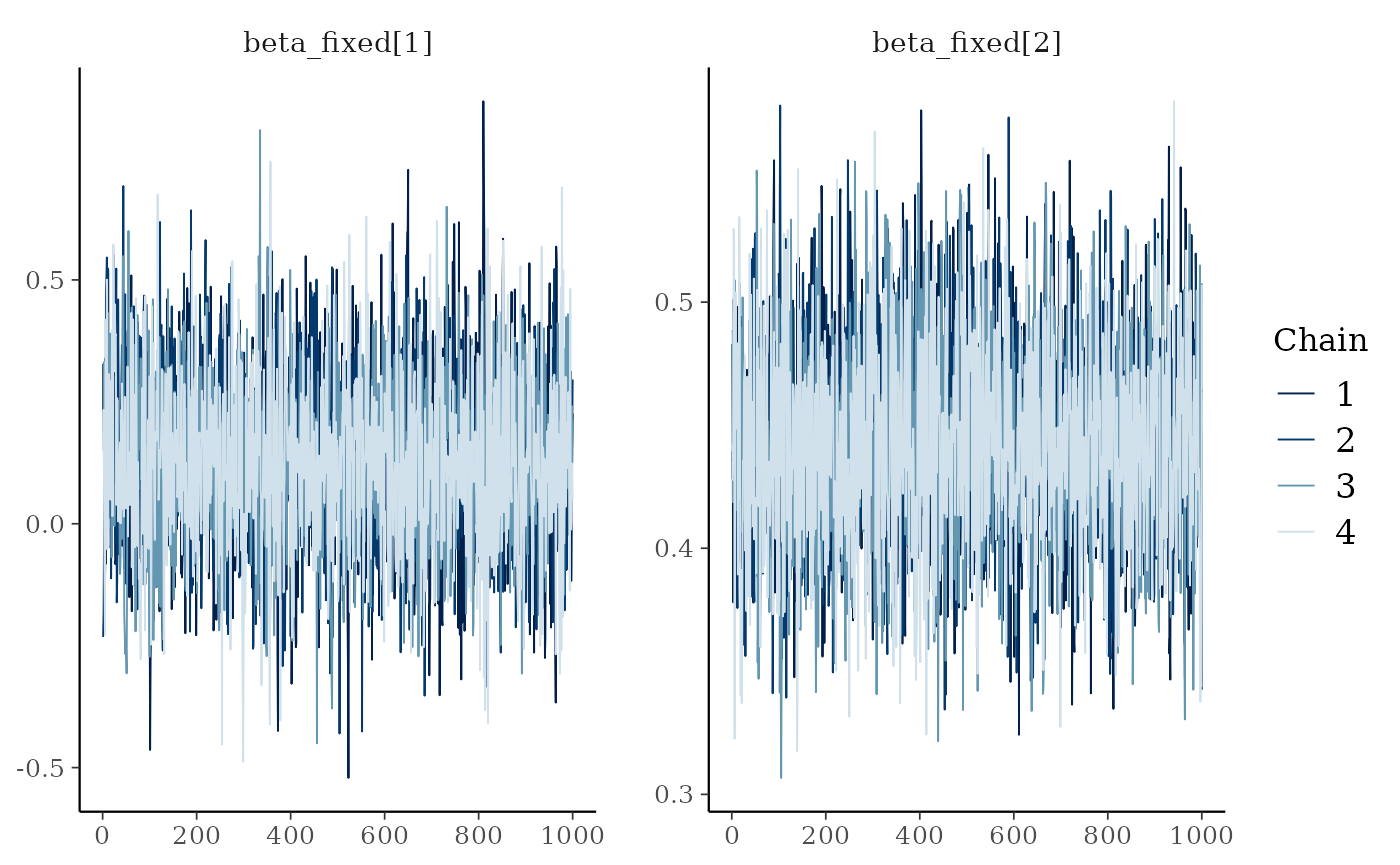
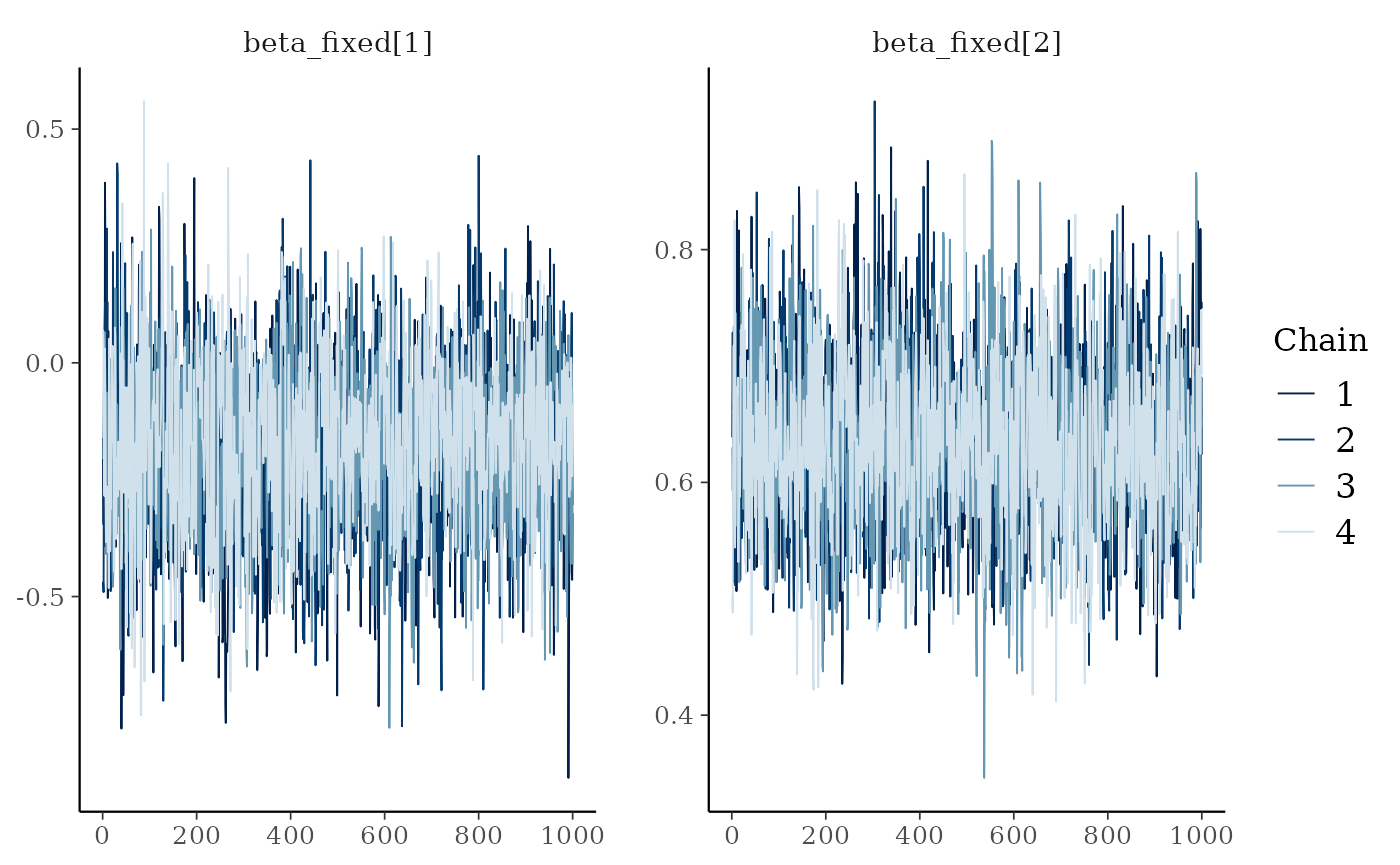
Built site for bisonR: 0.1.0@3e6dcfd

diff --git a/articles/getting_started.html b/articles/getting_started.html
@@ -126,12 +126,12 @@
 <span class="va">df</span> <span class="op">&lt;-</span> <span class="va">sim_data</span><span class="op">$</span><span class="va">df_sim</span>
 <span class="fu"><a href="https://rdrr.io/r/utils/head.html" class="external-link">head</a></span><span class="op">(</span><span class="va">df</span><span class="op">)</span>
 <span class="co">#&gt;   event node_1_id node_2_id age_diff    age_1    age_2 location duration</span>
-<span class="co">#&gt; 1     1         1         2  5.33301 21.64625 16.31324        4        1</span>
-<span class="co">#&gt; 2     1         1         2  5.33301 21.64625 16.31324        4        1</span>
-<span class="co">#&gt; 3     1         1         2  5.33301 21.64625 16.31324        3        1</span>
-<span class="co">#&gt; 4     1         1         2  5.33301 21.64625 16.31324        3        1</span>
-<span class="co">#&gt; 5     1         1         2  5.33301 21.64625 16.31324        5        1</span>
-<span class="co">#&gt; 6     1         1         2  5.33301 21.64625 16.31324        1        1</span></code></pre></div>
+<span class="co">#&gt; 1     0         1         2 2.712711 21.85628 19.14357        3        1</span>
+<span class="co">#&gt; 2     0         1         2 2.712711 21.85628 19.14357        3        1</span>
+<span class="co">#&gt; 3     1         1         2 2.712711 21.85628 19.14357        2        1</span>
+<span class="co">#&gt; 4     1         1         2 2.712711 21.85628 19.14357        4        1</span>
+<span class="co">#&gt; 5     1         1         2 2.712711 21.85628 19.14357        3        1</span>
+<span class="co">#&gt; 6     1         1         2 2.712711 21.85628 19.14357        1        1</span></code></pre></div>
 </div>
 <div class="section level2">
 <h2 id="edge-models">Edge Models<a class="anchor" aria-label="anchor" href="#edge-models"></a>
@@ -200,14 +200,14 @@
 <span class="co">#&gt; </span>
 <span class="co">#&gt; Running MCMC with 4 parallel chains...</span>
 <span class="co">#&gt; </span>
-<span class="co">#&gt; Chain 1 finished in 1.8 seconds.</span>
-<span class="co">#&gt; Chain 4 finished in 1.8 seconds.</span>
-<span class="co">#&gt; Chain 2 finished in 1.9 seconds.</span>
-<span class="co">#&gt; Chain 3 finished in 2.0 seconds.</span>
+<span class="co">#&gt; Chain 1 finished in 2.7 seconds.</span>
+<span class="co">#&gt; Chain 3 finished in 2.7 seconds.</span>
+<span class="co">#&gt; Chain 2 finished in 2.9 seconds.</span>
+<span class="co">#&gt; Chain 4 finished in 2.8 seconds.</span>
 <span class="co">#&gt; </span>
 <span class="co">#&gt; All 4 chains finished successfully.</span>
-<span class="co">#&gt; Mean chain execution time: 1.9 seconds.</span>
-<span class="co">#&gt; Total execution time: 2.2 seconds.</span></code></pre></div>
+<span class="co">#&gt; Mean chain execution time: 2.8 seconds.</span>
+<span class="co">#&gt; Total execution time: 3.1 seconds.</span></code></pre></div>
 <p>Depending on your dataset this can take anywhere between a few tenths of a second and several hours. In particular if you have a large dataset and no observation-level predictors, it’s probably a good idea to use the aggregated version of the model where all observations per dyad are collapsed to a single row. This will speed up model fitting considerably.</p>
 <p>Once the model has fitted, we need to check that the MCMC algorithm has behaved correctly. Usually if there’s a major problem, the <code><a href="../reference/edge_model.html">edge_model()</a></code> function itself will have triggered warning messages above. But even if everything is silent, it’s still worth checking the traceplots to check the MCMC chains have converged. The chains should be well-mixed and look something like a fuzzy caterpillar. We can check for this using the <code><a href="../reference/plot_trace.html">plot_trace()</a></code> function:</p>
 <div class="sourceCode" id="cb7"><pre class="downlit sourceCode r">
@@ -228,51 +228,51 @@
 <span class="co">#&gt; Directed: FALSE</span>
 <span class="co">#&gt; === Edge list summary ===</span>
 <span class="co">#&gt;          median    5%   95%</span>
-<span class="co">#&gt; 1 &lt;-&gt; 2   0.960 0.787 0.997</span>
-<span class="co">#&gt; 1 &lt;-&gt; 3   0.335 0.129 0.600</span>
-<span class="co">#&gt; 2 &lt;-&gt; 3   0.045 0.003 0.238</span>
-<span class="co">#&gt; 1 &lt;-&gt; 4   0.026 0.002 0.130</span>
-<span class="co">#&gt; 2 &lt;-&gt; 4   0.022 0.002 0.115</span>
-<span class="co">#&gt; 3 &lt;-&gt; 4   0.437 0.253 0.638</span>
-<span class="co">#&gt; 1 &lt;-&gt; 5   0.553 0.290 0.797</span>
-<span class="co">#&gt; 2 &lt;-&gt; 5   0.049 0.003 0.265</span>
-<span class="co">#&gt; 3 &lt;-&gt; 5   0.505 0.091 0.910</span>
-<span class="co">#&gt; 4 &lt;-&gt; 5   0.440 0.206 0.699</span>
-<span class="co">#&gt; 1 &lt;-&gt; 6   0.463 0.252 0.690</span>
-<span class="co">#&gt; 2 &lt;-&gt; 6   0.109 0.005 0.600</span>
-<span class="co">#&gt; 3 &lt;-&gt; 6   0.825 0.227 0.993</span>
-<span class="co">#&gt; 4 &lt;-&gt; 6   0.824 0.204 0.992</span>
-<span class="co">#&gt; 5 &lt;-&gt; 6   0.966 0.818 0.998</span>
-<span class="co">#&gt; 1 &lt;-&gt; 7   0.646 0.443 0.816</span>
-<span class="co">#&gt; 2 &lt;-&gt; 7   0.025 0.002 0.126</span>
-<span class="co">#&gt; 3 &lt;-&gt; 7   0.933 0.813 0.986</span>
-<span class="co">#&gt; 4 &lt;-&gt; 7   0.921 0.763 0.986</span>
-<span class="co">#&gt; 5 &lt;-&gt; 7   0.963 0.797 0.998</span>
-<span class="co">#&gt; 6 &lt;-&gt; 7   0.035 0.002 0.187</span>
-<span class="co">#&gt; 1 &lt;-&gt; 8   0.964 0.791 0.998</span>
-<span class="co">#&gt; 2 &lt;-&gt; 8   0.969 0.842 0.998</span>
-<span class="co">#&gt; 3 &lt;-&gt; 8   0.963 0.794 0.998</span>
-<span class="co">#&gt; 4 &lt;-&gt; 8   0.932 0.644 0.996</span>
-<span class="co">#&gt; 5 &lt;-&gt; 8   0.892 0.419 0.995</span>
-<span class="co">#&gt; 6 &lt;-&gt; 8   0.933 0.639 0.996</span>
-<span class="co">#&gt; 7 &lt;-&gt; 8   0.950 0.721 0.997</span>
-<span class="co">#&gt; 1 &lt;-&gt; 9   0.969 0.846 0.998</span>
-<span class="co">#&gt; 2 &lt;-&gt; 9   0.500 0.208 0.793</span>
-<span class="co">#&gt; 3 &lt;-&gt; 9   0.949 0.743 0.996</span>
-<span class="co">#&gt; 4 &lt;-&gt; 9   0.949 0.725 0.997</span>
-<span class="co">#&gt; 5 &lt;-&gt; 9   0.932 0.651 0.996</span>
-<span class="co">#&gt; 6 &lt;-&gt; 9   0.974 0.847 0.998</span>
-<span class="co">#&gt; 7 &lt;-&gt; 9   0.954 0.759 0.997</span>
-<span class="co">#&gt; 8 &lt;-&gt; 9   0.472 0.290 0.667</span>
-<span class="co">#&gt; 1 &lt;-&gt; 10  0.916 0.557 0.995</span>
-<span class="co">#&gt; 2 &lt;-&gt; 10  0.034 0.002 0.182</span>
-<span class="co">#&gt; 3 &lt;-&gt; 10  0.868 0.691 0.963</span>
-<span class="co">#&gt; 4 &lt;-&gt; 10  0.827 0.202 0.993</span>
-<span class="co">#&gt; 5 &lt;-&gt; 10  0.945 0.681 0.997</span>
-<span class="co">#&gt; 6 &lt;-&gt; 10  0.543 0.306 0.771</span>
-<span class="co">#&gt; 7 &lt;-&gt; 10  0.501 0.309 0.692</span>
-<span class="co">#&gt; 8 &lt;-&gt; 10  0.088 0.016 0.266</span>
-<span class="co">#&gt; 9 &lt;-&gt; 10  0.022 0.002 0.114</span></code></pre></div>
+<span class="co">#&gt; 1 &lt;-&gt; 2   0.663 0.341 0.896</span>
+<span class="co">#&gt; 1 &lt;-&gt; 3   0.502 0.284 0.720</span>
+<span class="co">#&gt; 2 &lt;-&gt; 3   0.040 0.003 0.194</span>
+<span class="co">#&gt; 1 &lt;-&gt; 4   0.951 0.726 0.996</span>
+<span class="co">#&gt; 2 &lt;-&gt; 4   0.506 0.092 0.913</span>
+<span class="co">#&gt; 3 &lt;-&gt; 4   0.979 0.900 0.998</span>
+<span class="co">#&gt; 1 &lt;-&gt; 5   0.926 0.782 0.986</span>
+<span class="co">#&gt; 2 &lt;-&gt; 5   0.082 0.014 0.253</span>
+<span class="co">#&gt; 3 &lt;-&gt; 5   0.817 0.212 0.992</span>
+<span class="co">#&gt; 4 &lt;-&gt; 5   0.160 0.046 0.352</span>
+<span class="co">#&gt; 1 &lt;-&gt; 6   0.082 0.004 0.433</span>
+<span class="co">#&gt; 2 &lt;-&gt; 6   0.021 0.002 0.109</span>
+<span class="co">#&gt; 3 &lt;-&gt; 6   0.288 0.125 0.507</span>
+<span class="co">#&gt; 4 &lt;-&gt; 6   0.115 0.006 0.577</span>
+<span class="co">#&gt; 5 &lt;-&gt; 6   0.202 0.058 0.436</span>
+<span class="co">#&gt; 1 &lt;-&gt; 7   0.896 0.426 0.995</span>
+<span class="co">#&gt; 2 &lt;-&gt; 7   0.943 0.689 0.996</span>
+<span class="co">#&gt; 3 &lt;-&gt; 7   0.969 0.840 0.998</span>
+<span class="co">#&gt; 4 &lt;-&gt; 7   0.848 0.691 0.944</span>
+<span class="co">#&gt; 5 &lt;-&gt; 7   0.732 0.533 0.881</span>
+<span class="co">#&gt; 6 &lt;-&gt; 7   0.950 0.708 0.997</span>
+<span class="co">#&gt; 1 &lt;-&gt; 8   0.335 0.130 0.597</span>
+<span class="co">#&gt; 2 &lt;-&gt; 8   0.438 0.243 0.637</span>
+<span class="co">#&gt; 3 &lt;-&gt; 8   0.645 0.454 0.819</span>
+<span class="co">#&gt; 4 &lt;-&gt; 8   0.071 0.014 0.203</span>
+<span class="co">#&gt; 5 &lt;-&gt; 8   0.602 0.417 0.765</span>
+<span class="co">#&gt; 6 &lt;-&gt; 8   0.810 0.622 0.932</span>
+<span class="co">#&gt; 7 &lt;-&gt; 8   0.022 0.002 0.111</span>
+<span class="co">#&gt; 1 &lt;-&gt; 9   0.925 0.768 0.987</span>
+<span class="co">#&gt; 2 &lt;-&gt; 9   0.666 0.346 0.899</span>
+<span class="co">#&gt; 3 &lt;-&gt; 9   0.891 0.421 0.995</span>
+<span class="co">#&gt; 4 &lt;-&gt; 9   0.501 0.280 0.724</span>
+<span class="co">#&gt; 5 &lt;-&gt; 9   0.944 0.670 0.997</span>
+<span class="co">#&gt; 6 &lt;-&gt; 9   0.966 0.806 0.998</span>
+<span class="co">#&gt; 7 &lt;-&gt; 9   0.944 0.678 0.997</span>
+<span class="co">#&gt; 8 &lt;-&gt; 9   0.932 0.646 0.996</span>
+<span class="co">#&gt; 1 &lt;-&gt; 10  0.735 0.346 0.953</span>
+<span class="co">#&gt; 2 &lt;-&gt; 10  0.300 0.152 0.482</span>
+<span class="co">#&gt; 3 &lt;-&gt; 10  0.876 0.643 0.979</span>
+<span class="co">#&gt; 4 &lt;-&gt; 10  0.204 0.075 0.392</span>
+<span class="co">#&gt; 5 &lt;-&gt; 10  0.637 0.390 0.838</span>
+<span class="co">#&gt; 6 &lt;-&gt; 10  0.977 0.889 0.998</span>
+<span class="co">#&gt; 7 &lt;-&gt; 10  0.180 0.008 0.800</span>
+<span class="co">#&gt; 8 &lt;-&gt; 10  0.935 0.622 0.997</span>
+<span class="co">#&gt; 9 &lt;-&gt; 10  0.085 0.005 0.448</span></code></pre></div>
 <p>It can be hard to get an intuitive idea for what’s going on looking only at a summary table, so this is where it can be useful to visualise the network too. The <code><a href="../reference/plot_network.html">plot_network()</a></code> function does this for BISoN edge weight models, where uncertainty is shown on edge weights. Uncertainty is visualised by showing the lower and upper bounds as overlapping edges in the network.</p>
 <div class="sourceCode" id="cb10"><pre class="downlit sourceCode r">
 <code class="sourceCode R"><span class="fu"><a href="../reference/plot_network.html">plot_network</a></span><span class="op">(</span><span class="va">fit_edge</span>, lwd<span class="op">=</span><span class="fl">5</span><span class="op">)</span></code></pre></div>
@@ -315,32 +315,32 @@
 <span class="co">#&gt; Chain 4 Iteration:    1 / 2000 [  0%]  (Warmup) </span>
 <span class="co">#&gt; Chain 1 Iteration:  500 / 2000 [ 25%]  (Warmup) </span>
 <span class="co">#&gt; Chain 2 Iteration:  500 / 2000 [ 25%]  (Warmup) </span>
-<span class="co">#&gt; Chain 4 Iteration:  500 / 2000 [ 25%]  (Warmup) </span>
 <span class="co">#&gt; Chain 3 Iteration:  500 / 2000 [ 25%]  (Warmup) </span>
-<span class="co">#&gt; Chain 1 Iteration: 1000 / 2000 [ 50%]  (Warmup) </span>
-<span class="co">#&gt; Chain 1 Iteration: 1001 / 2000 [ 50%]  (Sampling) </span>
+<span class="co">#&gt; Chain 4 Iteration:  500 / 2000 [ 25%]  (Warmup) </span>
 <span class="co">#&gt; Chain 2 Iteration: 1000 / 2000 [ 50%]  (Warmup) </span>
 <span class="co">#&gt; Chain 2 Iteration: 1001 / 2000 [ 50%]  (Sampling) </span>
-<span class="co">#&gt; Chain 4 Iteration: 1000 / 2000 [ 50%]  (Warmup) </span>
-<span class="co">#&gt; Chain 4 Iteration: 1001 / 2000 [ 50%]  (Sampling) </span>
+<span class="co">#&gt; Chain 1 Iteration: 1000 / 2000 [ 50%]  (Warmup) </span>
+<span class="co">#&gt; Chain 1 Iteration: 1001 / 2000 [ 50%]  (Sampling) </span>
 <span class="co">#&gt; Chain 3 Iteration: 1000 / 2000 [ 50%]  (Warmup) </span>
 <span class="co">#&gt; Chain 3 Iteration: 1001 / 2000 [ 50%]  (Sampling) </span>
-<span class="co">#&gt; Chain 1 Iteration: 1500 / 2000 [ 75%]  (Sampling) </span>
+<span class="co">#&gt; Chain 4 Iteration: 1000 / 2000 [ 50%]  (Warmup) </span>
+<span class="co">#&gt; Chain 4 Iteration: 1001 / 2000 [ 50%]  (Sampling) </span>
 <span class="co">#&gt; Chain 2 Iteration: 1500 / 2000 [ 75%]  (Sampling) </span>
-<span class="co">#&gt; Chain 4 Iteration: 1500 / 2000 [ 75%]  (Sampling) </span>
+<span class="co">#&gt; Chain 1 Iteration: 1500 / 2000 [ 75%]  (Sampling) </span>
 <span class="co">#&gt; Chain 3 Iteration: 1500 / 2000 [ 75%]  (Sampling) </span>
-<span class="co">#&gt; Chain 1 Iteration: 2000 / 2000 [100%]  (Sampling) </span>
+<span class="co">#&gt; Chain 4 Iteration: 1500 / 2000 [ 75%]  (Sampling) </span>
 <span class="co">#&gt; Chain 2 Iteration: 2000 / 2000 [100%]  (Sampling) </span>
-<span class="co">#&gt; Chain 1 finished in 3.0 seconds.</span>
-<span class="co">#&gt; Chain 2 finished in 3.0 seconds.</span>
+<span class="co">#&gt; Chain 2 finished in 3.3 seconds.</span>
+<span class="co">#&gt; Chain 1 Iteration: 2000 / 2000 [100%]  (Sampling) </span>
 <span class="co">#&gt; Chain 3 Iteration: 2000 / 2000 [100%]  (Sampling) </span>
+<span class="co">#&gt; Chain 1 finished in 3.4 seconds.</span>
+<span class="co">#&gt; Chain 3 finished in 3.4 seconds.</span>
 <span class="co">#&gt; Chain 4 Iteration: 2000 / 2000 [100%]  (Sampling) </span>
-<span class="co">#&gt; Chain 3 finished in 3.1 seconds.</span>
-<span class="co">#&gt; Chain 4 finished in 3.1 seconds.</span>
+<span class="co">#&gt; Chain 4 finished in 3.4 seconds.</span>
 <span class="co">#&gt; </span>
 <span class="co">#&gt; All 4 chains finished successfully.</span>
-<span class="co">#&gt; Mean chain execution time: 3.0 seconds.</span>
-<span class="co">#&gt; Total execution time: 3.2 seconds.</span></code></pre></div>
+<span class="co">#&gt; Mean chain execution time: 3.4 seconds.</span>
+<span class="co">#&gt; Total execution time: 3.6 seconds.</span></code></pre></div>
 <p>Like last time we want to check that our model has fit properly and makes good predictions. This can be done in exactly the same way as last time:</p>
 <div class="sourceCode" id="cb13"><pre class="downlit sourceCode r">
 <code class="sourceCode R"><span class="fu"><a href="../reference/plot_trace.html">plot_trace</a></span><span class="op">(</span><span class="va">fit_dyadic</span><span class="op">)</span></code></pre></div>
@@ -355,9 +355,9 @@
 <span class="co">#&gt; Formula: dyad(node_1_id, node_2_id) ~ age_diff</span>
 <span class="co">#&gt; Number of dyads: 45</span>
 <span class="co">#&gt; === Coefficient summary ===                </span>
-<span class="co">#&gt; variable           50%     5%   95%</span>
-<span class="co">#&gt;   intercept      0.132 -0.161 0.425</span>
-<span class="co">#&gt;   fixed_age_diff 0.443  0.376 0.513</span></code></pre></div>
+<span class="co">#&gt; variable            50%     5%   95%</span>
+<span class="co">#&gt;   intercept      -0.173 -0.479 0.108</span>
+<span class="co">#&gt;   fixed_age_diff  0.635  0.519 0.759</span></code></pre></div>
 <p>Now we’ve seen how to fit a dyadic regression, the next common type of analysis is nodal regression.</p>
 </div>
 <div class="section level2">
@@ -373,16 +373,16 @@
   <span class="fu"><a href="https://dplyr.tidyverse.org/reference/distinct.html" class="external-link">distinct</a></span><span class="op">(</span><span class="va">node_id</span>, <span class="va">age</span><span class="op">)</span>
 <span class="va">df_nodal</span>
 <span class="co">#&gt;    node_id      age</span>
-<span class="co">#&gt; 1        1 21.64625</span>
-<span class="co">#&gt; 2        2 16.31324</span>
-<span class="co">#&gt; 3        3 24.23427</span>
-<span class="co">#&gt; 4        4 25.32712</span>
-<span class="co">#&gt; 5        5 24.29219</span>
-<span class="co">#&gt; 6        6 20.81810</span>
-<span class="co">#&gt; 7        7 22.34335</span>
-<span class="co">#&gt; 8        8 15.93179</span>
-<span class="co">#&gt; 9        9 14.84469</span>
-<span class="co">#&gt; 10      10 21.06110</span></code></pre></div>
+<span class="co">#&gt; 1        1 21.85628</span>
+<span class="co">#&gt; 2        2 19.14357</span>
+<span class="co">#&gt; 3        3 23.02210</span>
+<span class="co">#&gt; 4        4 18.52703</span>
+<span class="co">#&gt; 5        5 20.58835</span>
+<span class="co">#&gt; 6        6 23.40549</span>
+<span class="co">#&gt; 7        7 18.45448</span>
+<span class="co">#&gt; 8        8 21.18437</span>
+<span class="co">#&gt; 9        9 16.73064</span>
+<span class="co">#&gt; 10      10 18.86006</span></code></pre></div>
 <p>Priors can be set in the exact same way as for the <code><a href="../reference/dyadic_regression.html">dyadic_regression()</a></code> function:</p>
 <div class="sourceCode" id="cb17"><pre class="downlit sourceCode r">
 <code class="sourceCode R"><span class="va">priors</span> <span class="op">&lt;-</span> <span class="fu"><a href="../reference/get_default_priors.html">get_default_priors</a></span><span class="op">(</span><span class="st">"nodal_regression"</span><span class="op">)</span>
@@ -405,37 +405,42 @@
 <span class="co">#&gt; Running MCMC with 4 parallel chains...</span>
 <span class="co">#&gt; </span>
 <span class="co">#&gt; Chain 1 Iteration:    1 / 2000 [  0%]  (Warmup) </span>
-<span class="co">#&gt; Chain 2 Iteration:    1 / 2000 [  0%]  (Warmup) </span>
+<span class="co">#&gt; Chain 2 Iteration:    1 / 2000 [  0%]  (Warmup)</span>
+<span class="co">#&gt; Chain 2 Informational Message: The current Metropolis proposal is about to be rejected because of the following issue:</span>
+<span class="co">#&gt; Chain 2 Exception: multi_normal_lpdf: LDLT_Factor of covariance parameter is not positive definite.  last conditional variance is -nan. (in '/tmp/RtmpvIcdXD/model-387d150e8ff5.stan', line 34, column 2 to column 94)</span>
+<span class="co">#&gt; Chain 2 If this warning occurs sporadically, such as for highly constrained variable types like covariance matrices, then the sampler is fine,</span>
+<span class="co">#&gt; Chain 2 but if this warning occurs often then your model may be either severely ill-conditioned or misspecified.</span>
+<span class="co">#&gt; Chain 2</span>
 <span class="co">#&gt; Chain 3 Iteration:    1 / 2000 [  0%]  (Warmup) </span>
 <span class="co">#&gt; Chain 4 Iteration:    1 / 2000 [  0%]  (Warmup) </span>
 <span class="co">#&gt; Chain 1 Iteration:  500 / 2000 [ 25%]  (Warmup) </span>
-<span class="co">#&gt; Chain 1 Iteration: 1000 / 2000 [ 50%]  (Warmup) </span>
-<span class="co">#&gt; Chain 1 Iteration: 1001 / 2000 [ 50%]  (Sampling) </span>
 <span class="co">#&gt; Chain 2 Iteration:  500 / 2000 [ 25%]  (Warmup) </span>
 <span class="co">#&gt; Chain 3 Iteration:  500 / 2000 [ 25%]  (Warmup) </span>
+<span class="co">#&gt; Chain 1 Iteration: 1000 / 2000 [ 50%]  (Warmup) </span>
+<span class="co">#&gt; Chain 1 Iteration: 1001 / 2000 [ 50%]  (Sampling) </span>
 <span class="co">#&gt; Chain 4 Iteration:  500 / 2000 [ 25%]  (Warmup) </span>
 <span class="co">#&gt; Chain 2 Iteration: 1000 / 2000 [ 50%]  (Warmup) </span>
 <span class="co">#&gt; Chain 2 Iteration: 1001 / 2000 [ 50%]  (Sampling) </span>
 <span class="co">#&gt; Chain 3 Iteration: 1000 / 2000 [ 50%]  (Warmup) </span>
 <span class="co">#&gt; Chain 3 Iteration: 1001 / 2000 [ 50%]  (Sampling) </span>
+<span class="co">#&gt; Chain 1 Iteration: 1500 / 2000 [ 75%]  (Sampling) </span>
 <span class="co">#&gt; Chain 4 Iteration: 1000 / 2000 [ 50%]  (Warmup) </span>
 <span class="co">#&gt; Chain 4 Iteration: 1001 / 2000 [ 50%]  (Sampling) </span>
-<span class="co">#&gt; Chain 1 Iteration: 1500 / 2000 [ 75%]  (Sampling) </span>
-<span class="co">#&gt; Chain 2 Iteration: 1500 / 2000 [ 75%]  (Sampling) </span>
 <span class="co">#&gt; Chain 3 Iteration: 1500 / 2000 [ 75%]  (Sampling) </span>
-<span class="co">#&gt; Chain 4 Iteration: 1500 / 2000 [ 75%]  (Sampling) </span>
+<span class="co">#&gt; Chain 2 Iteration: 1500 / 2000 [ 75%]  (Sampling) </span>
 <span class="co">#&gt; Chain 1 Iteration: 2000 / 2000 [100%]  (Sampling) </span>
+<span class="co">#&gt; Chain 3 Iteration: 2000 / 2000 [100%]  (Sampling) </span>
+<span class="co">#&gt; Chain 4 Iteration: 1500 / 2000 [ 75%]  (Sampling) </span>
+<span class="co">#&gt; Chain 1 finished in 1.1 seconds.</span>
+<span class="co">#&gt; Chain 3 finished in 1.1 seconds.</span>
 <span class="co">#&gt; Chain 2 Iteration: 2000 / 2000 [100%]  (Sampling) </span>
 <span class="co">#&gt; Chain 4 Iteration: 2000 / 2000 [100%]  (Sampling) </span>
-<span class="co">#&gt; Chain 1 finished in 0.7 seconds.</span>
-<span class="co">#&gt; Chain 2 finished in 0.8 seconds.</span>
-<span class="co">#&gt; Chain 4 finished in 0.7 seconds.</span>
-<span class="co">#&gt; Chain 3 Iteration: 2000 / 2000 [100%]  (Sampling) </span>
-<span class="co">#&gt; Chain 3 finished in 0.8 seconds.</span>
+<span class="co">#&gt; Chain 2 finished in 1.2 seconds.</span>
+<span class="co">#&gt; Chain 4 finished in 1.2 seconds.</span>
 <span class="co">#&gt; </span>
 <span class="co">#&gt; All 4 chains finished successfully.</span>
-<span class="co">#&gt; Mean chain execution time: 0.8 seconds.</span>
-<span class="co">#&gt; Total execution time: 0.9 seconds.</span></code></pre></div>
+<span class="co">#&gt; Mean chain execution time: 1.1 seconds.</span>
+<span class="co">#&gt; Total execution time: 1.3 seconds.</span></code></pre></div>
 <p>Once the model has been fitted, we need to employ the same diagnostic checks as last time to ensure the model is reliable. This may seem a little tedious, and it won’t always go smoothly, but it’s a vital part of model fitting that is essential for reliable inferences, even in frequentist statistics.</p>
 <div class="sourceCode" id="cb19"><pre class="downlit sourceCode r">
 <code class="sourceCode R"><span class="fu"><a href="../reference/plot_trace.html">plot_trace</a></span><span class="op">(</span><span class="va">fit_nodal</span><span class="op">)</span></code></pre></div>
@@ -451,8 +456,8 @@
 <span class="co">#&gt; Number of nodes: 10</span>
 <span class="co">#&gt; === Coefficient summary ===           </span>
 <span class="co">#&gt; variable       50%     5%   95%</span>
-<span class="co">#&gt;   intercept  0.063 -2.949 2.749</span>
-<span class="co">#&gt;   fixed_age -0.002 -0.134 0.142</span></code></pre></div>
+<span class="co">#&gt;   intercept  0.669 -2.637 3.697</span>
+<span class="co">#&gt;   fixed_age -0.035 -0.186 0.131</span></code></pre></div>
 </div>
 <div class="section level2">
 <h2 id="conclusion">Conclusion<a class="anchor" aria-label="anchor" href="#conclusion"></a>
